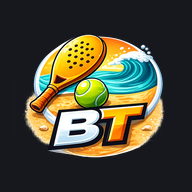
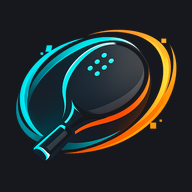
alteração do icone do app

diff --git a/service-worker.js b/service-worker.js
@@ -1,6 +1,6 @@
 // Alterar SOMENTE este valor a cada deploy (ex: v2026.02.09-1, v2026.02.10-1).
 // Isso força o navegador a instalar a nova versão do Service Worker.
-const SW_VERSION = 'v2026.02.12-5'
+const SW_VERSION = 'v2026.02.12-6'
 
 const APP_CACHE_PREFIX = `btp-app-${SW_VERSION}-`
 const RUNTIME_CACHE_PREFIX = `btp-runtime-${SW_VERSION}-`

diff --git a/index.html b/index.html
@@ -130,6 +130,7 @@
     <link rel="manifest" href="manifest.json" />
     <meta name="theme-color" content="#16181d" />
 
+    <link rel="icon" href="favicon.ico" />
     <link rel="apple-touch-icon" href="icon-192.png" />
     <meta name="apple-mobile-web-app-capable" content="yes" />
     <meta
